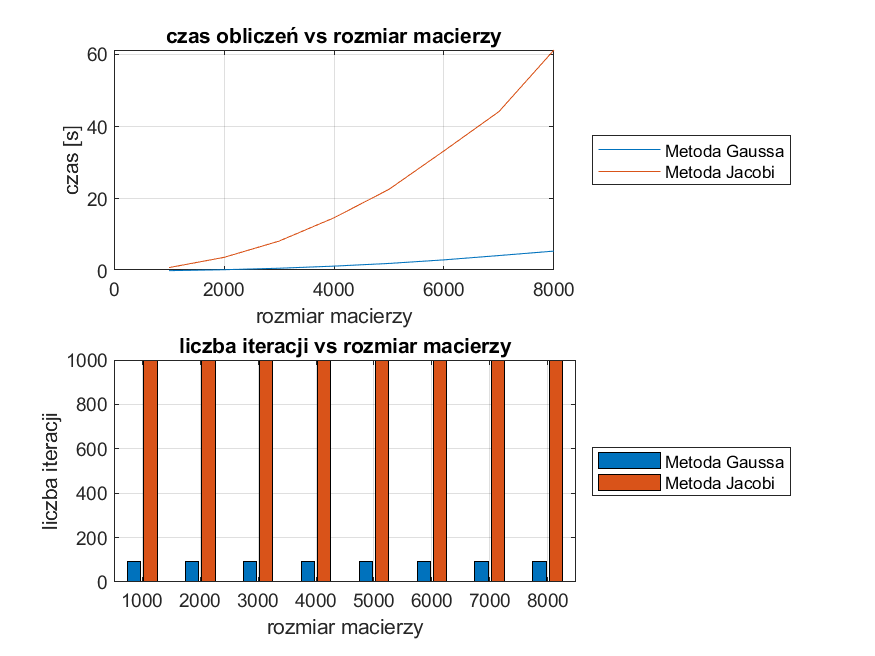
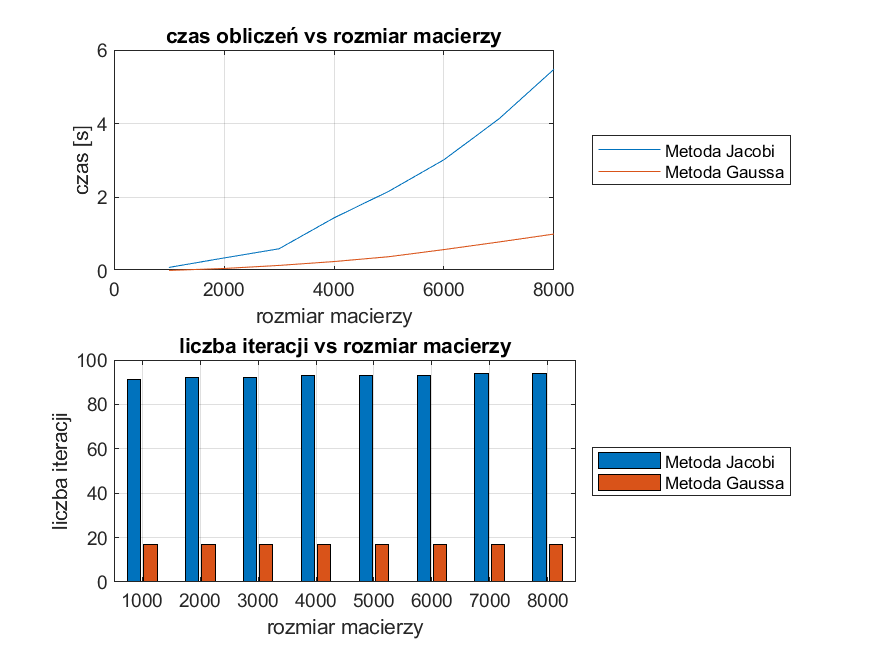
Finished

diff --git a/plot_problem_5.m b/plot_problem_5.m
@@ -13,7 +13,7 @@ plot(N, time_Jacobi, N, time_Gauss_Seidel);
 xlabel("rozmiar macierzy");
 ylabel("czas [s]");
 title("czas obliczeń vs rozmiar macierzy");
-legend("Metoda Jacobi","Metoda Jacobi", 'Location', 'eastoutside');
+legend("Metoda Jacobi","Metoda Gaussa", 'Location', 'eastoutside');
 grid on;
 
 
